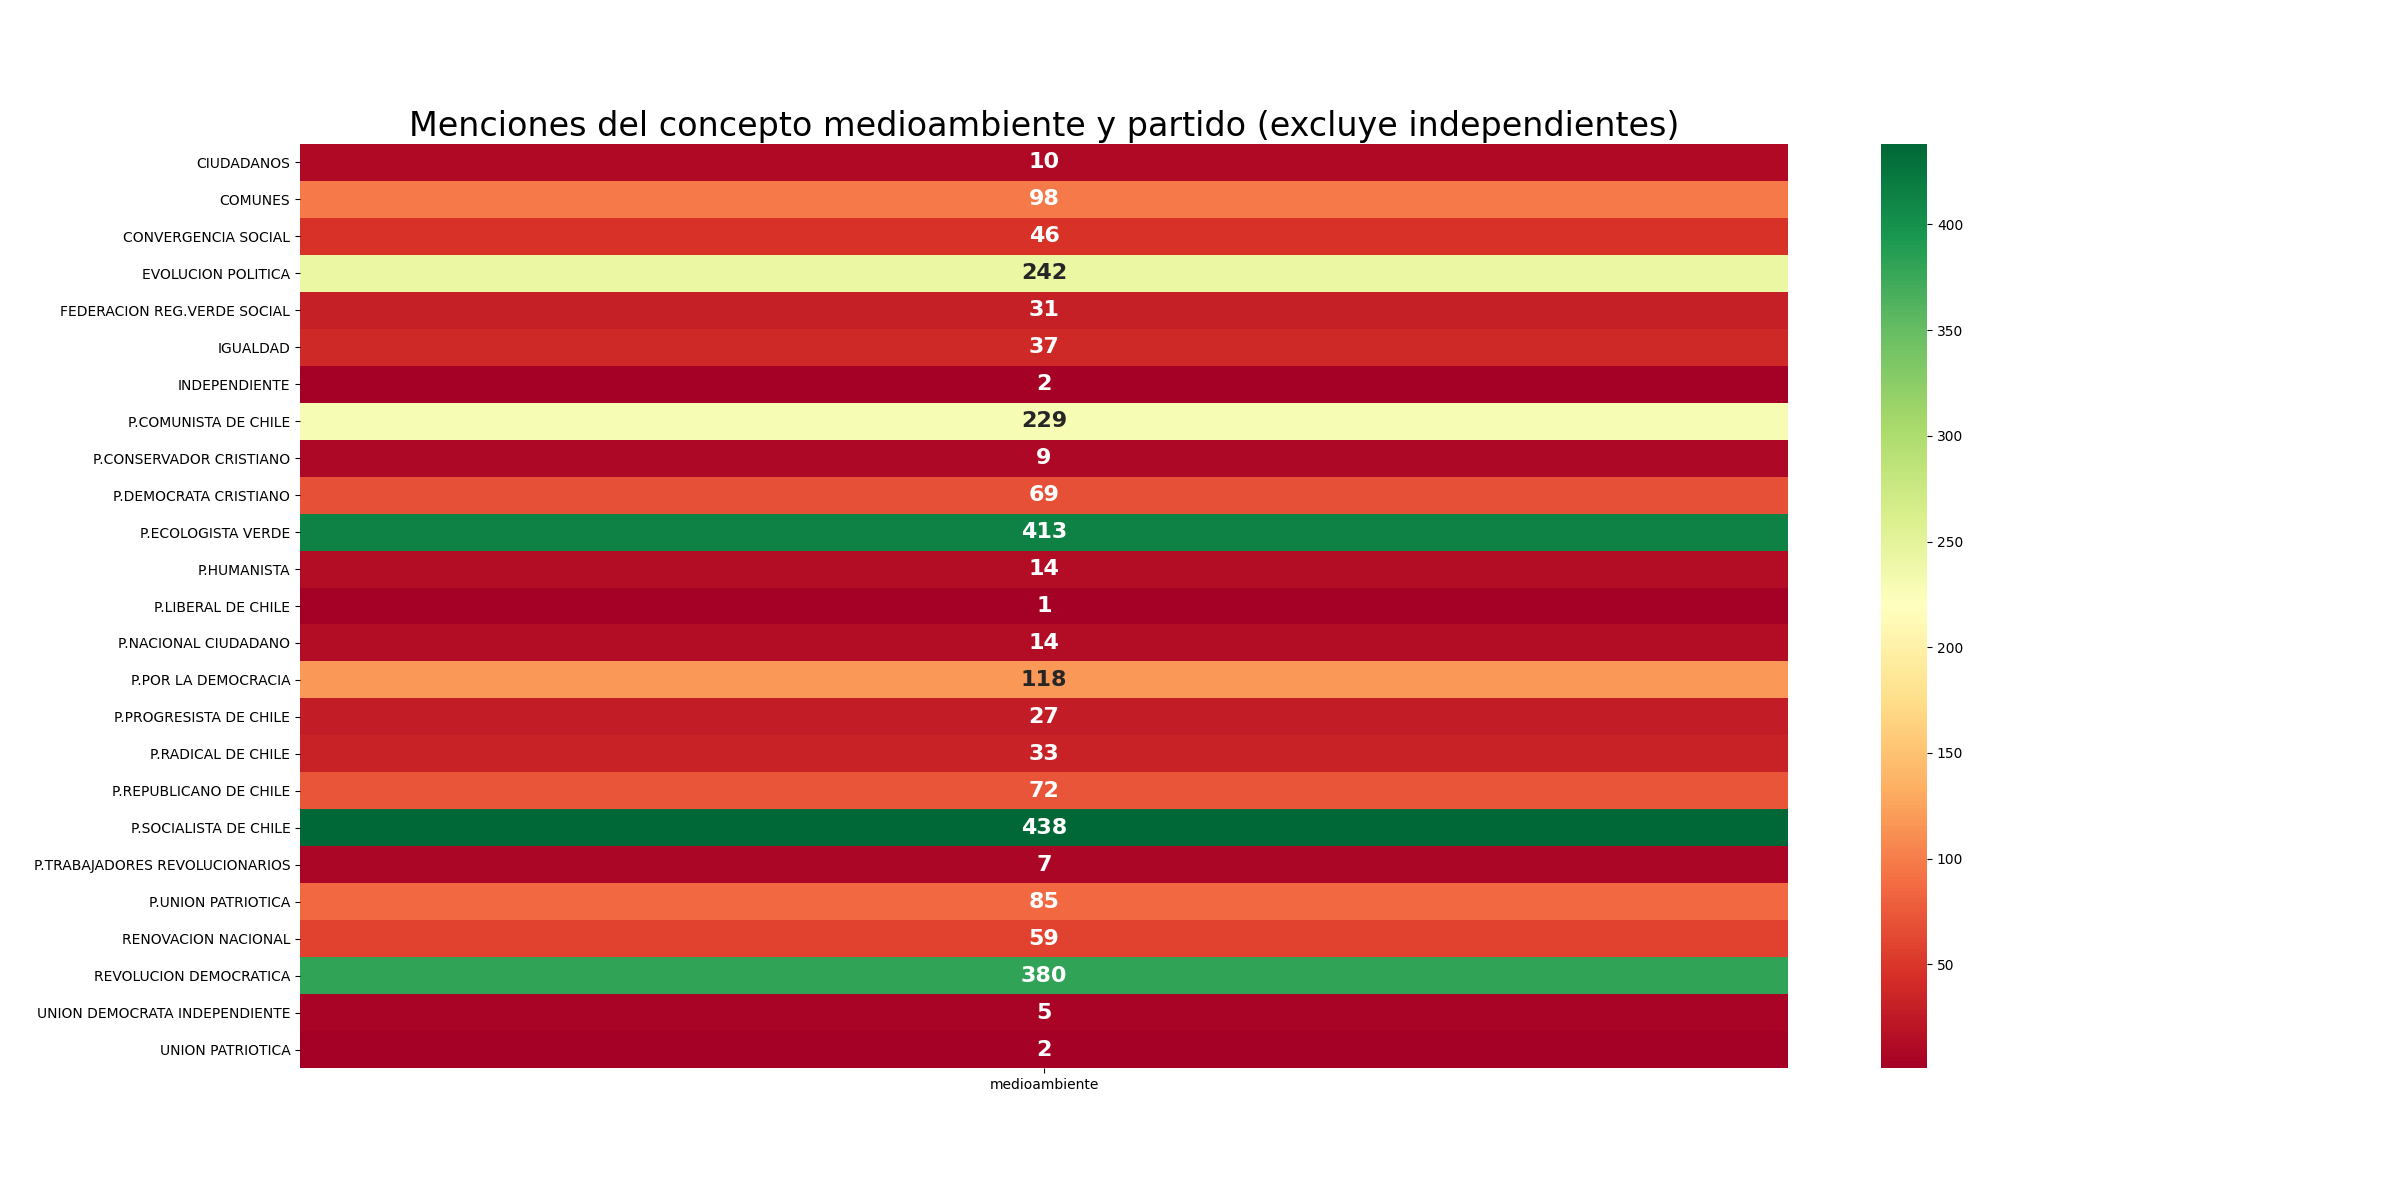
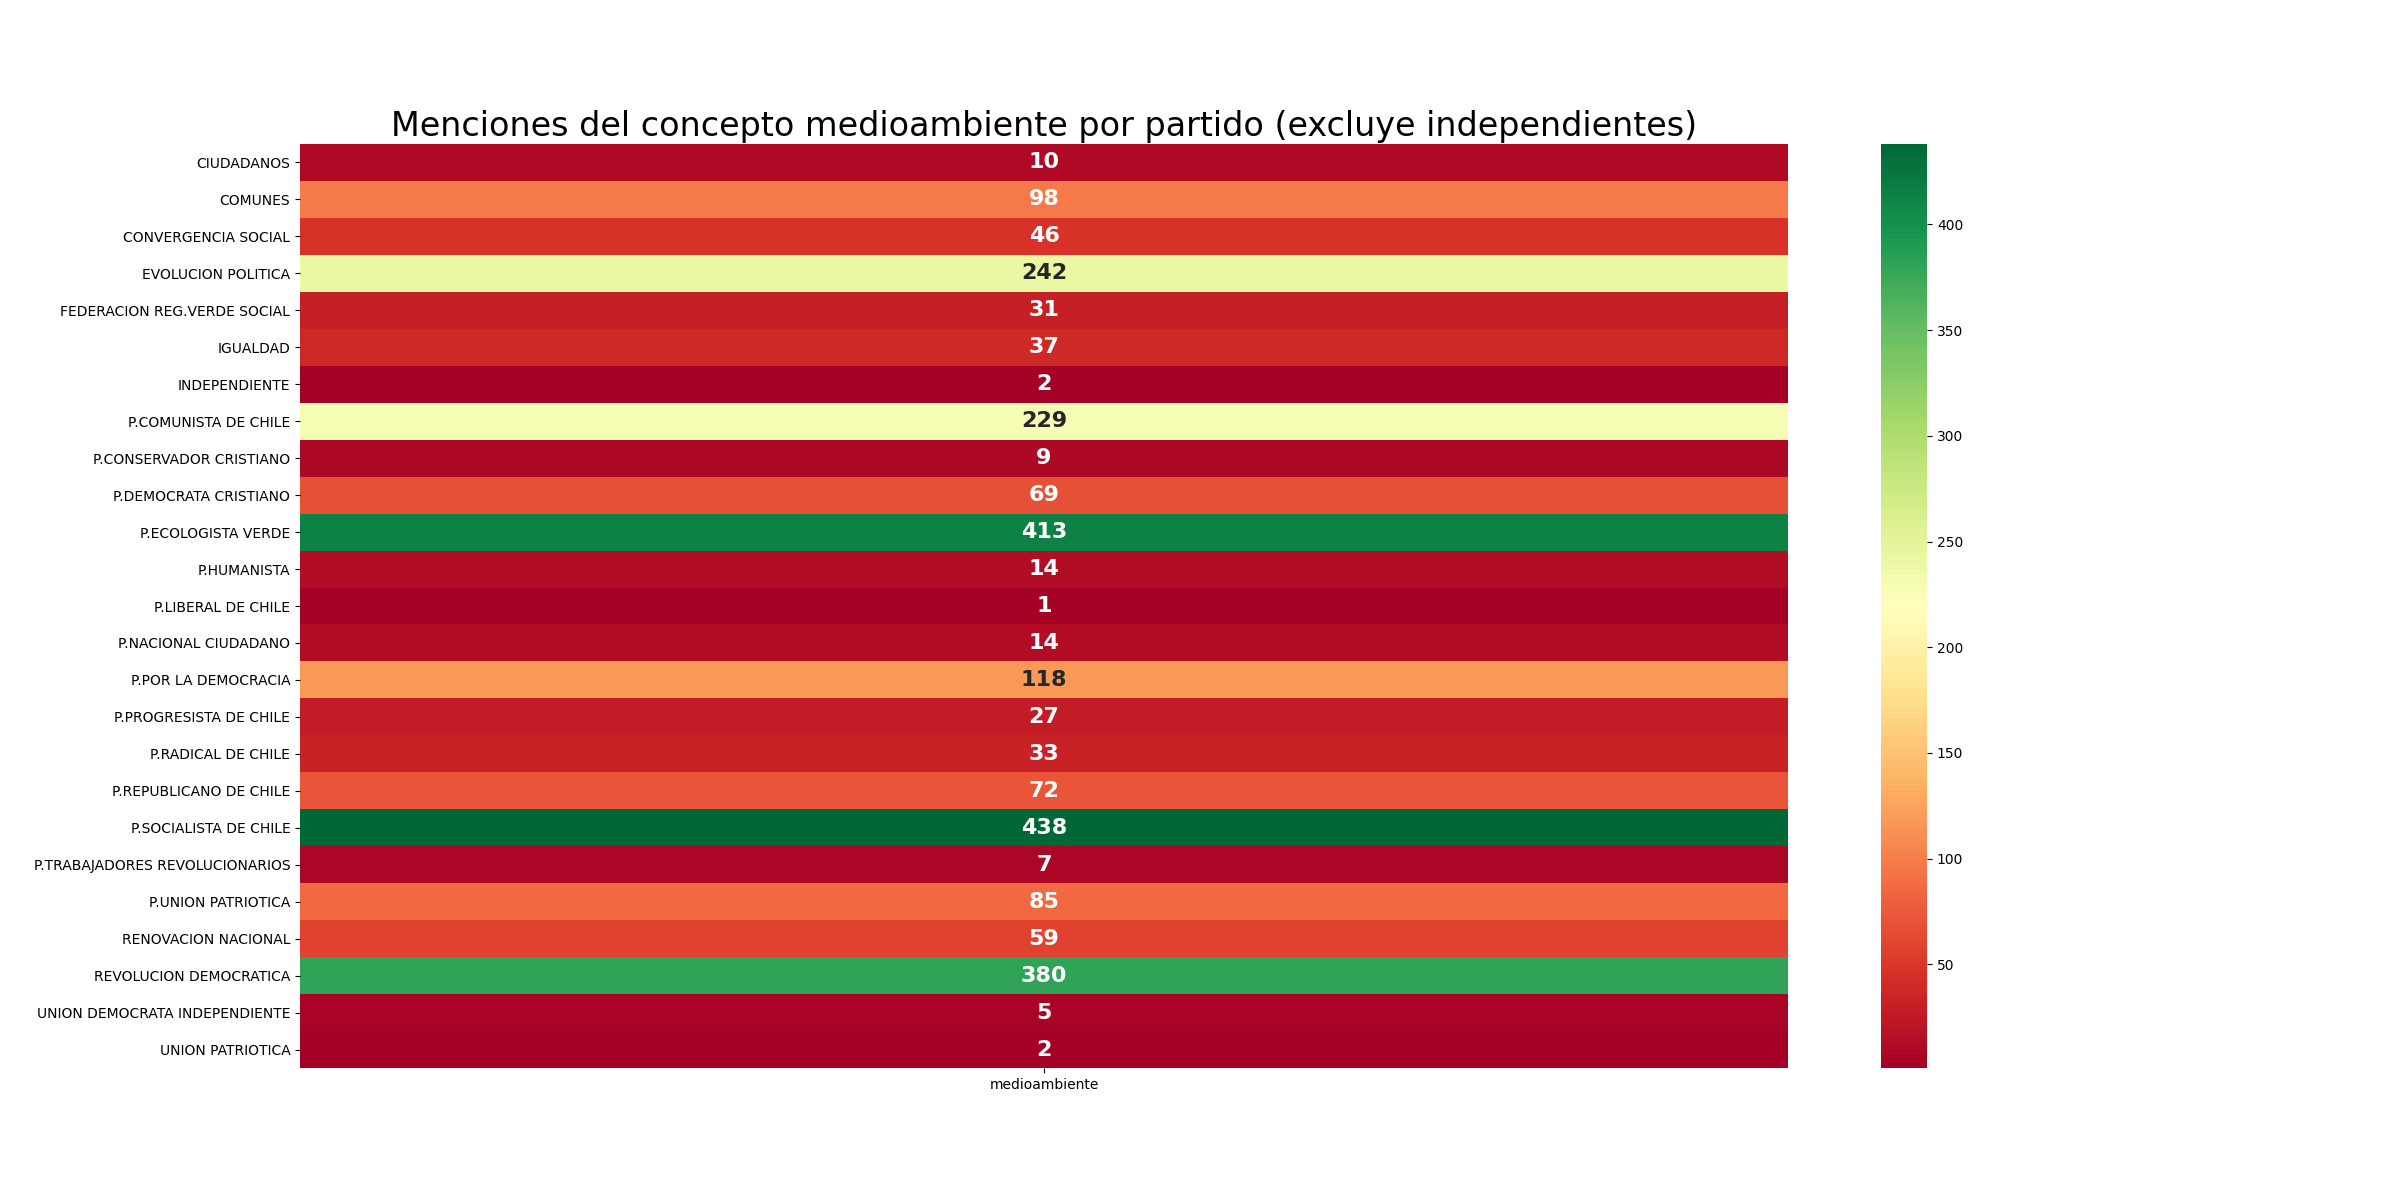
MILESTONED: sdir

Changed region(s): [[0.1562, 0.0925, 0.7188, 0.1233]]

diff --git a/templates/equipo.html b/templates/equipo.html
@@ -32,10 +32,6 @@ y sus candidatos independientes asociados.
 Compuesto por Sergio Lucero, ingeniero civil matemático (Universidad de Chile) y analista cuantitativo y José Manuel Ferreiro, 
 doctor en Lingüística (Lancaster University)
 el equipo que montó este estudio para Greenpeace se destaca por generar 
-visualizaciones de conceptos semánticos en entornos de grandes cantidades de datos. Esto fue demostrado en su trabajo para el
-estudio <A HREF="https://estudiodialogos.cl/">Dialogos de Futuro</A>, llevado a cabo en conjunto con Merlin entre el 2019 y el 2020.
-</TD></TR>
-<TR><TD><H4>Clusters</H4>
-<IMG SRC="static/dialogos.png">
+visualizaciones de conceptos semánticos en entornos de grandes cantidades de datos. 
 </TD></TR>
 </TABLE>

diff --git a/templates/stats.html b/templates/stats.html
@@ -1,0 +1,5 @@
+<TABLE BORDER=2>
+{% for file, link in flinks %}
+<TR><TD>{{file}}</TD><TD>{{link|safe}}</TD></TR>
+{% endfor %}
+</TABLE>

diff --git a/plotters.py b/plotters.py
@@ -10,7 +10,8 @@ from matplotlib.offsetbox import AnnotationBbox, OffsetImage
 
 files = list(glob.glob('TEXTOS/TODOS/*.txt'))
 textos = [open(fn).read() for fn in files]		# ACTUALIZADO!
-
+temas = ['agua','clima', 'medioambiente']
+########################################################
 df = pd.DataFrame(dict(archivo=files, texto=textos))
 df['distrito'] = [fn.split('/')[2].split('_')[0] for fn in files]
 df['distrito'] = ['D%02d' %(int(dist[1:])) for dist in df.distrito]
@@ -89,50 +90,80 @@ def fix_list(lis):
     #print(lis, flis)
     return flis
 
-for dist, dxdf in xdf.groupby('distrito'):
-    dxdf['lista']= dxdf.lista.apply(fix_list)
+doPlotD = False
+if doPlotD:
+    for dist, dxdf in xdf.groupby('distrito'):
+        dxdf['lista']= dxdf.lista.apply(fix_list)
 
-    dldf = dxdf.groupby('lista').sum()
-    psdf = dldf.drop('largo', axis=1)
-    fig, ax =  plt.subplots(1, figsize=(14,8))
-    fig.subplots_adjust(right=0.8)
-    p=sns.heatmap(psdf.replace(0,np.nan), annot=True, 
+        dldf = dxdf.groupby('lista').sum()
+        psdf = dldf.drop('largo', axis=1)
+        fig, ax =  plt.subplots(1, figsize=(14,8))
+        fig.subplots_adjust(right=0.8)
+        p=sns.heatmap(psdf.replace(0,np.nan), annot=True, 
                 annot_kws={'size':20, 'weight': 'bold'}, 
               cmap='RdYlGn', fmt='.0f', cbar=False);
-    plt.xticks(fontsize=18)  # agua, clima, medio
-    plt.yticks(fontsize=14)  # agua, clima, medio
+        plt.xticks(fontsize=18)  # agua, clima, medio
+        plt.yticks(fontsize=14)  # agua, clima, medio
     #plt.margins(x=0.1)
-    plt.title(f'Menciones ambientales por tema y lista (Distrito {dist})', size=24);
-    ax.yaxis.set_label_position("right")
-    ax.yaxis.tick_right()   # all this works!
-    plt.yticks(rotation=0)
+        plt.title(f'Menciones ambientales por tema y lista (Distrito {dist})', size=24);
+        ax.yaxis.set_label_position("right")
+        ax.yaxis.tick_right()   # all this works!
+        plt.yticks(rotation=0)
     #for tick in ax.get_yticklabels():
     #    tick(rotation=45)  # does it work?
-    plt.savefig(f'static/heatmap_listas_D{dist}.png')
+        plt.savefig(f'static/heatmap_listas_D{dist}.png')
     #print(dist,end=':')
-    plt.close()
+        plt.close()
+
+        for tema in temas:
+            #print('TEMA:', tema)
+            tpidf=psdf[[tema]]
+            fig, ax = plt.subplots(1, figsize=(24,12))
+            p = sns.heatmap(tpidf.replace(0, np.nan),                   # PLOT1: por partido
+              annot=True, annot_kws={'size':16, 'weight': 'bold'}, 
+                cmap='RdYlGn', fmt='.0f');
+            plt.title(f'Menciones del concepto {tema} por partido (excluye independientes)', size=24);
+            plt.savefig(f'static/heatmap_D{dist}_{tema}.png')
+            plt.close()
+
+
 print('PLOTTED: distritos')
 #############################
-for lista, dxdf in xdf.groupby('lista'):
-    clista = lista.replace(' ','_').replace('(','').replace(')','').replace('_/_','_')
-    dldf = dxdf.groupby('distrito').sum()
-    psdf = dldf.drop('largo', axis=1)
+plotLD = False
+if plotLD:
+    for lista, dxdf in xdf.groupby('lista'):
+        clista = lista.replace(' ','_').replace('(','').replace(')','').replace('_/_','_')
+        dldf = dxdf.groupby('distrito').sum()
+        psdf = dldf.drop('largo', axis=1)
 
-    fig, ax =  plt.subplots(1, figsize=(24,12))
-    p = sns.heatmap(psdf.replace(0,np.nan), annot=True, 
+        fig, ax =  plt.subplots(1, figsize=(24,12))
+        p = sns.heatmap(psdf.replace(0,np.nan), annot=True, 
                   annot_kws={'size':20, 'weight': 'bold'}, 
                   cmap='RdYlGn', fmt='.0f', cbar=False);
     #plt.xticks(rotation=45)
-    plt.xticks(fontsize=18)  # agua, clima, medio
+        plt.xticks(fontsize=18)  # agua, clima, medio
     #plt.yticks(rotation=0)
     #plt.margins(x=0.1)
-    plt.title(f'Menciones ambientales por tema lista {clista})', size=24);
-    ax.yaxis.set_label_position("right")
-    ax.yaxis.tick_right()
-    plt.yticks(rotation=0)  # does it work? 90 don't
-    plt.savefig(f'static/heatmap_lista_{clista}.png')
-    print(dist,end=':')
-    plt.close()
+        plt.title(f'Menciones ambientales por tema lista {clista})', size=24);
+        ax.yaxis.set_label_position("right")
+        ax.yaxis.tick_right()
+        plt.yticks(rotation=0)  # does it work? 90 don't
+        plt.savefig(f'static/heatmap_lista_{clista}.png')
+        #print(dist,end=':')
+
+        plt.close()
+
+        for tema in temas:
+            print('TEMA:', tema)
+            tpidf=dxdf[[tema]]
+            fig, ax = plt.subplots(1, figsize=(24,12))
+            p = sns.heatmap(tpidf.replace(0, np.nan),                   # PLOT1: por partido
+              annot=True, annot_kws={'size':16, 'weight': 'bold'}, 
+                cmap='RdYlGn', fmt='.0f');
+            plt.title(f'Menciones del concepto {tema} por partido (excluye independientes)', size=24);
+            plt.savefig(f'static/heatmap_lista_{clista}_{tema}.png')
+            plt.close()
+
 print('PLOTTED: listas')
 #################################
 pxdf = xdf.copy()
@@ -186,7 +217,7 @@ pidf.index = [p.replace('PARTIDO ','P.').replace('REGIONALISTA ','REG.') for p i
 fig, ax = plt.subplots(1, figsize=(24,12))
 p = sns.heatmap(pidf[temas].replace(0, np.nan),                   # PLOT1: por partido
               annot=True, annot_kws={'size':16, 'weight': 'bold'}, 
-                cmap='RdYlGn', fmt='.0f');
+               cmap='RdYlGn', fmt='.0f');
 #plt.xticks(rotation=45); plt.title('Menciones ambientales por tema y partido (excluye independientes)', size=24);
 plt.savefig('static/heatmap_partidos.png')
 plt.close()
@@ -199,9 +230,7 @@ for tema in temas:
     p = sns.heatmap(tpidf.replace(0, np.nan),                   # PLOT1: por partido
               annot=True, annot_kws={'size':16, 'weight': 'bold'}, 
                 cmap='RdYlGn', fmt='.0f');
-
-#plt.xticks(rotation=45)
-    plt.title(f'Menciones del concepto {tema} y partido (excluye independientes)', size=24);
+    plt.title(f'Menciones del concepto {tema} por partido (excluye independientes)', size=24);
     plt.savefig(f'static/heatmap_partidos_{tema}.png')
     plt.close()
 

diff --git a/app.py b/app.py
@@ -20,6 +20,14 @@ def verlas(query, ancho):
                             nMatches=nMatches, 
                             mencion=query)
 
+@app.route('/sdir')
+def show_stat():
+    files = list(glob.glob('static/*'))
+    links = ['http://greenpeace-monitor.herokuapp.com/static/%s' %fn[12:] 
+            for fn in files]
+    return render_template('stats.html', files=files, links=links)
+
+
 @app.route('/ver_menciones_ori/<query>/<ancho>', methods=['GET','POST'])
 def verlas_ori(query, ancho):
 
